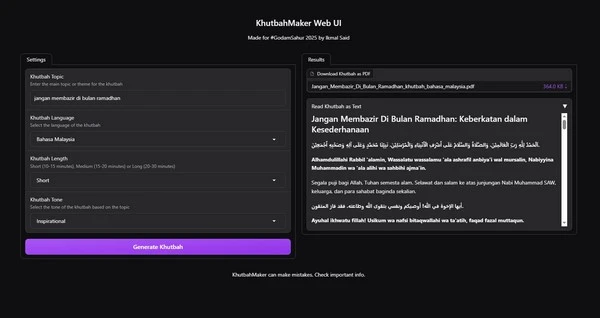
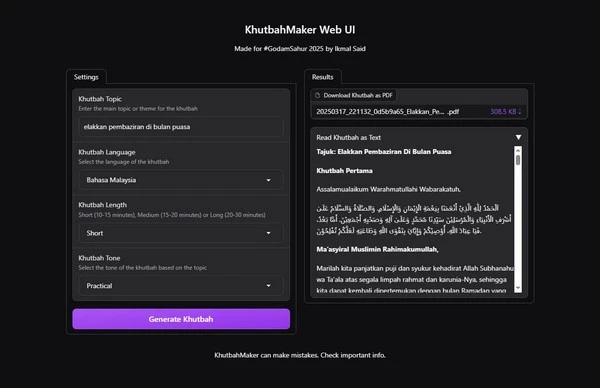
Improved logging and webui, updated readme docs

diff --git a/src/khutbahmaker/__init__.py b/src/khutbahmaker/__init__.py
@@ -47,7 +47,7 @@ class KhutbahMaker:
             if self.api_key:
                 genai.configure(api_key=self.api_key)
             
-            self.logger.info(f"[{task_id}] Generating khutbah on topic '{topic}' in {language} with tone of {tone.lower()}...")
+            self.logger.info(f"[{task_id}] Generating khutbah: '{topic}' ({language} - {tone})")
             
             if length.lower() == 'short':
                 length = 'short (approximately 10-15 minutes)'
@@ -56,7 +56,7 @@ class KhutbahMaker:
             elif length.lower() == 'long':
                 length = 'long (approximately 20-30 minutes)'
 
-            prompt = f"You are an expert Islamic scholar in writing khutbahs. You are required to write a {length} Friday khutbah (sermon) in {language} on the topic on '{topic}' with tone of {tone.lower()}. Create a complete, well-structured Islamic khutbah that includes: 1. An appropriate title 2. Opening with praise to Allah and salutations on Prophet Muhammad (peace be upon him) 3. Introduction to the topic with relevant Quranic verses and Hadith 4. Main body with clear points, explanations, and guidance 5. Practical advice for the audience 6. Conclusion with a summary of key points 7. Closing duas (prayers) The khutbah should be scholarly yet accessible, with proper citations of Quranic verses and authentic Hadith. Write the ENTIRE khutbah in {language} only, including the explanation and translation of Quranic verses and Hadith. Only include Arabic script for Quranic verses and Hadith, followed by their translation in {language}. Do not mix the khutbah with other languages and copyrighted materials. Do not include any opening or closing remarks."
+            prompt = f"You are an expert Islamic scholar in writing khutbahs. You are required to write a {length} Friday khutbah (sermon) in {language} on the topic on '{topic}' with a {tone.lower()} tone. Create a complete, well-structured Islamic khutbah that includes: 1. An appropriate title 2. Opening with praise to Allah and salutations on Prophet Muhammad (peace be upon him) 3. Introduction to the topic with relevant Quranic verses and Hadith 4. Main body with clear points, explanations, and guidance 5. Practical advice for the audience 6. Conclusion with a summary of key points 7. Closing duas (prayers) The khutbah should be scholarly yet accessible, with proper citations of Quranic verses and authentic Hadith. Write the ENTIRE khutbah in {language} only, including the explanation and translation of Quranic verses and Hadith. Only include Arabic script for Quranic verses and Hadith, followed by their translation in {language}. DO NOT mix the khutbah with other languages and copyrighted materials. DO NOT include any opening or closing remarks."
 
             model = genai.GenerativeModel(self.aigc_model)
             response = model.generate_content(prompt, request_options=RequestOptions(timeout=self.timeout), generation_config=GenerationConfig(temperature=1.2))
@@ -74,7 +74,8 @@ class KhutbahMaker:
             clean_filename = f"{task_id}_{clean_topic}_khutbah_{language.lower().replace(' ', '_')}"
             pdf_path = os.path.join(tempfile.gettempdir(), f"{clean_filename}.pdf")
             
-            self.logger.info(f"[{task_id}] Generating Khutbah PDF: {pdf_path}")
+            self.logger.info(f"[{task_id}] Generating PDF: {pdf_path}")
+            
             # Initialize without TOC to avoid hierarchy issues
             pdf = MarkdownPdf(toc_level=0)
             
@@ -155,7 +156,7 @@ class KhutbahMaker:
             return pdf_path
 
         except Exception as e:
-            self.logger.error(f"[{task_id}] Khutbah PDF generation failed: {str(e)}")
+            self.logger.error(f"[{task_id}] PDF generation failed: {str(e)}")
             return None
 
     def __get_taskid(self):

diff --git a/src/khutbahmaker/webui.py b/src/khutbahmaker/webui.py
@@ -59,7 +59,7 @@ def KhutbahMakerWebUI(client, host: str = None, port: int = None, browser: bool 
                                 )
                                 
                                 khutbah_tone = gr.Dropdown(
-                                    value="Inspirational", 
+                                    value="Scholarly", 
                                     choices=["Scholarly", "Inspirational", "Practical", "Reflective", "Motivational", "Educational", "Historical", "Narrative"], 
                                     label="Khutbah Tone",
                                     info="Select the tone of the khutbah based on the topic"

diff --git a/README.md b/README.md
@@ -36,17 +36,18 @@ from khutbahmaker import KhutbahMaker
 
 # Initialize
 client = KhutbahMaker(
-    mode="default",      # Mode (default/webui)
-    api_key="YOUR_KEY",  # AI service API key
-    model="gemini-2.0-flash-thinking-exp-01-21"  # AI model to use
+    mode="default",                               # Mode (default/webui)
+    api_key="YOUR_KEY",                           # AI service API key
+    model="gemini-2.0-flash-thinking-exp-01-21"   # AI model to use
+    timeout=180                                   # AI request timeout in seconds
 )
 
 # Generate khutbah
 pdf_file, markdown_text = client.generate_khutbah(
-    topic="Ramadan Preparation",    # Main topic/theme
-    length="Short",                 # short/medium/long
-    tone="Inspirational",           # Tone of the khutbah
-    language="Bahasa Malaysia"      # Target language
+    topic="Ramadan Preparation",   # Main topic/theme
+    length="Short",                # short/medium/long
+    tone="Inspirational",          # Tone of the khutbah
+    language="Bahasa Malaysia"     # Target language
 )
 ```
 
